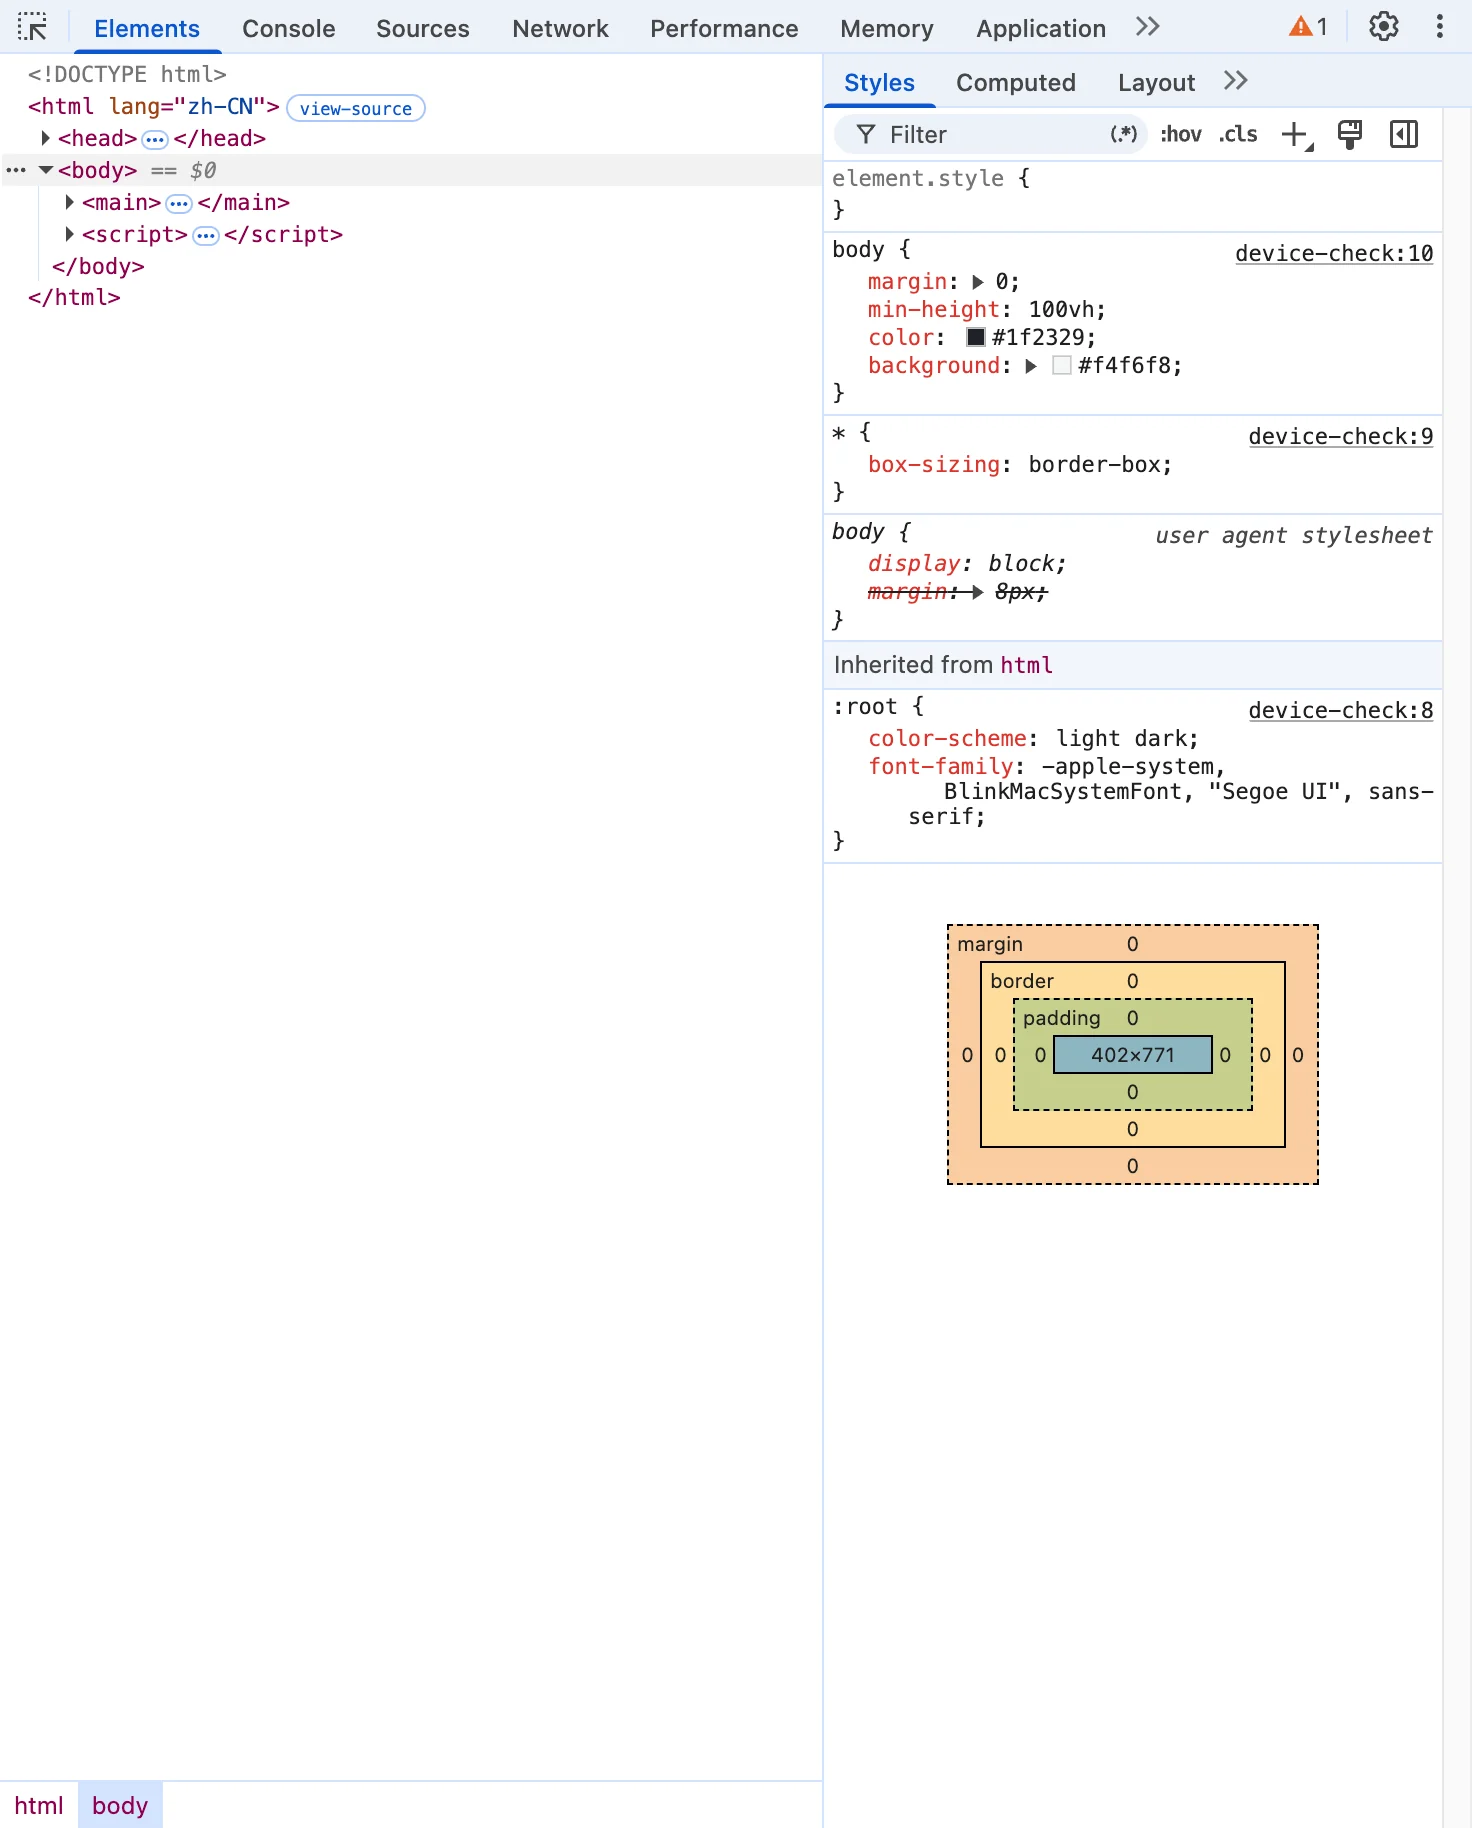
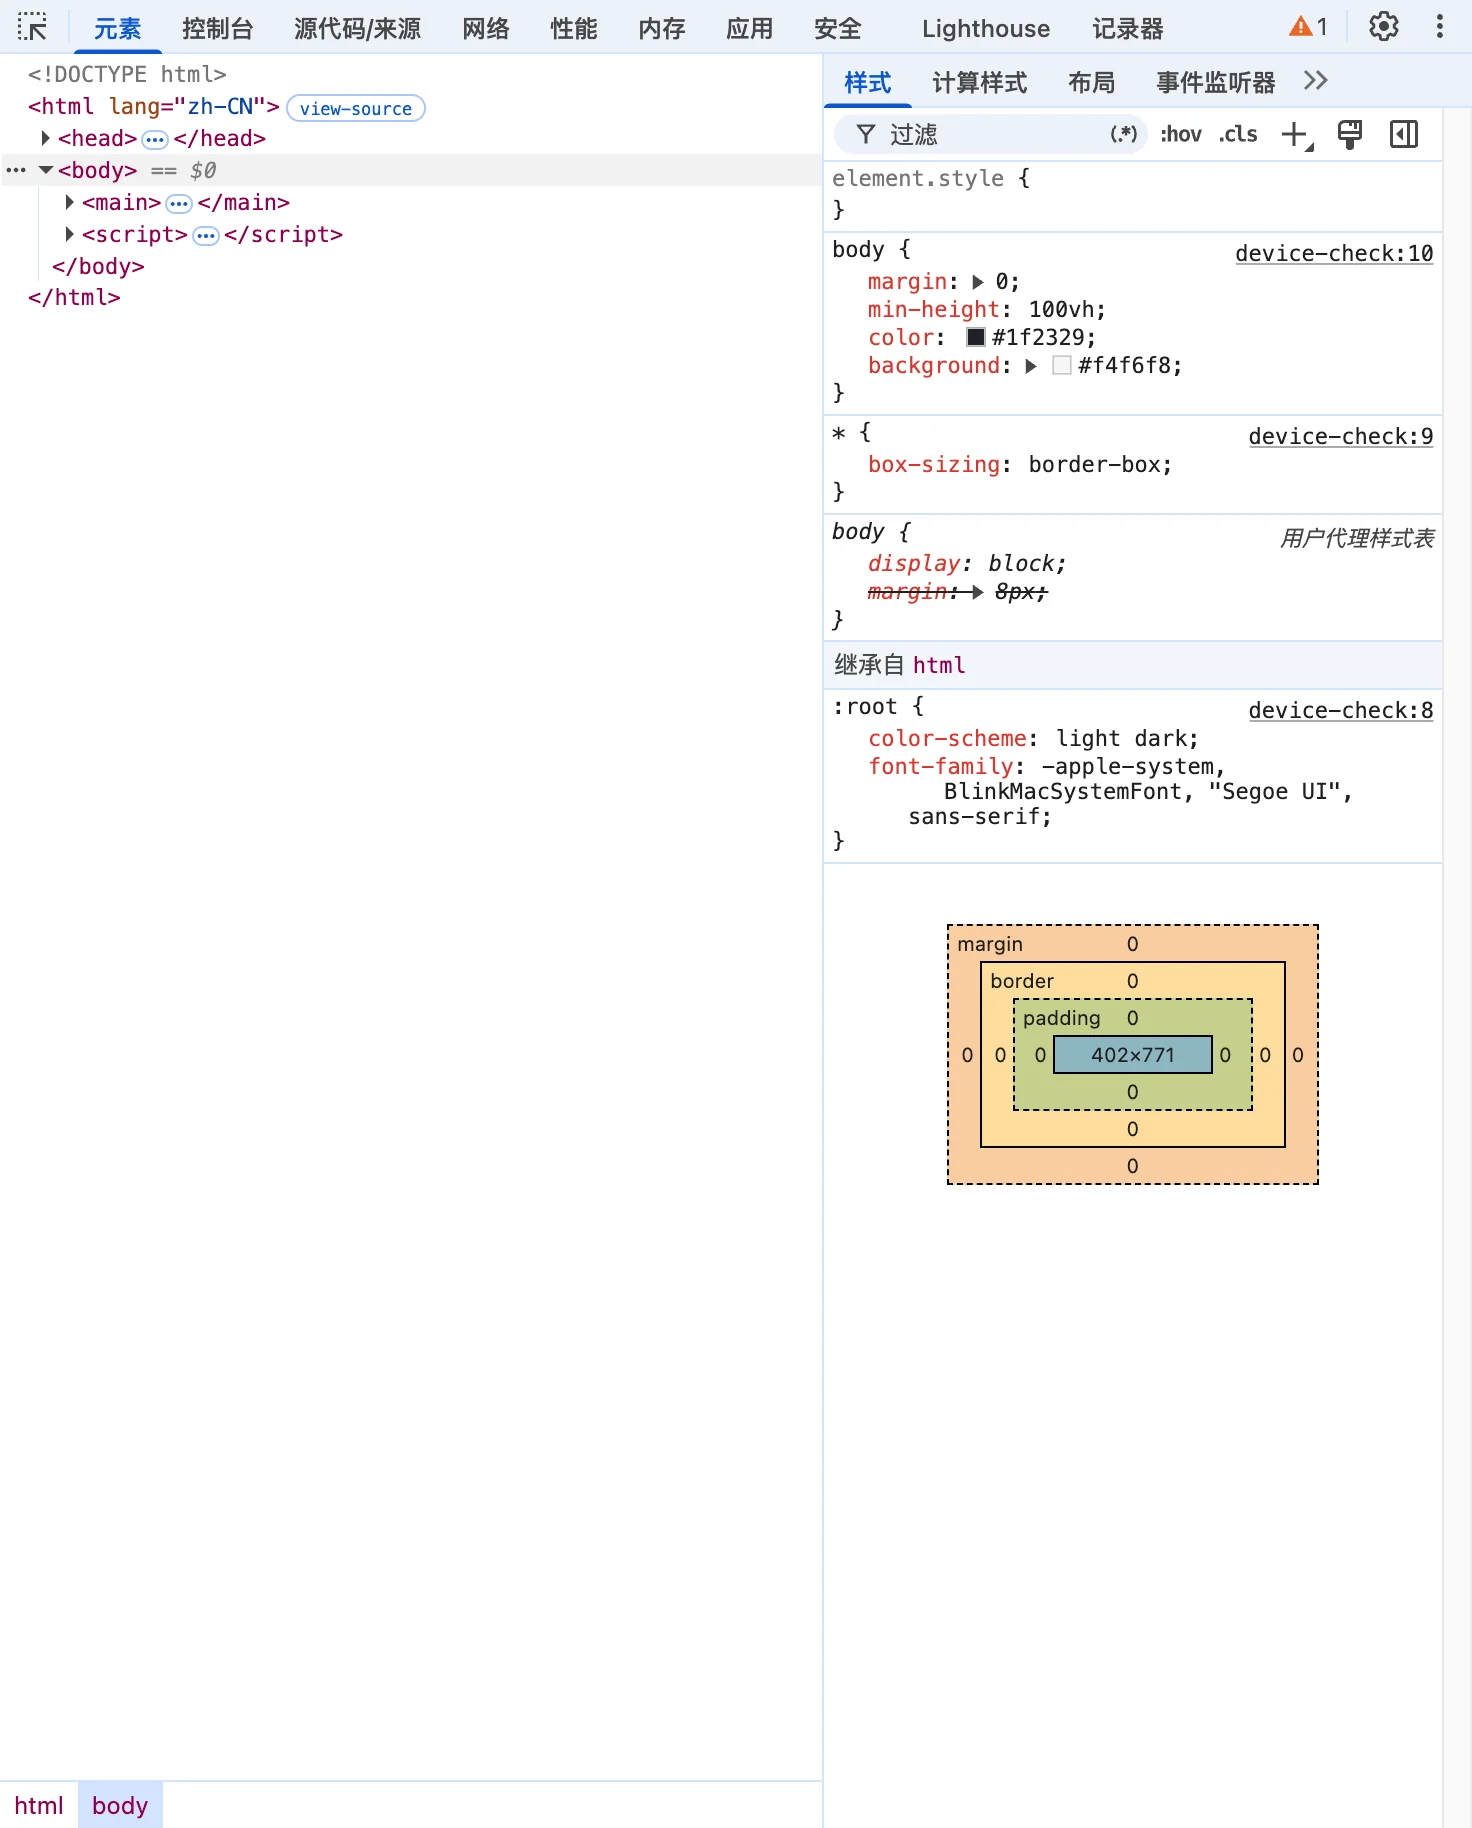
docs: refresh website screenshots for 0.2.0 layout

diff --git a/docs/progress.md b/docs/progress.md
@@ -9,7 +9,7 @@
 - 版本号 0.1.8 → 0.2.0（`package.json` 与 `packages/larto-mcp/package.json`，满足 release 工作流的三方一致性校验）。
 - CHANGELOG 新增 0.2.0 条目（新增 8 项 / 变更 6 项 / 已知限制沿用），发布说明将由 `scripts/extract-release-notes.mjs` 自动提取。
 - 官网：26 处版本引用替换为 0.2.0，hero 文案补充 JSAPI Mock 规则引擎。
-- 软件截图：官网截图脚本依赖 GUI Electron，本环境无法运行（已验证），待本机执行 `npm run screenshots` 后补一个 docs 提交。
+- 软件截图：官网 6 张截图已在本机重新生成（应用经 launchd 包装器拉起、脚本驱动 MCP 抓取，2360×1908 @2x、深浅双主题），含 v0.2.0 新布局（模拟器顶部机型/缩放工具条）。
 - 提交全部待发布改动并打 tag `v0.2.0`，由 release 工作流构建三平台产物、生成草稿 Release 并发布，随后 larto-mcp 发 npm。
 
 **验证**
